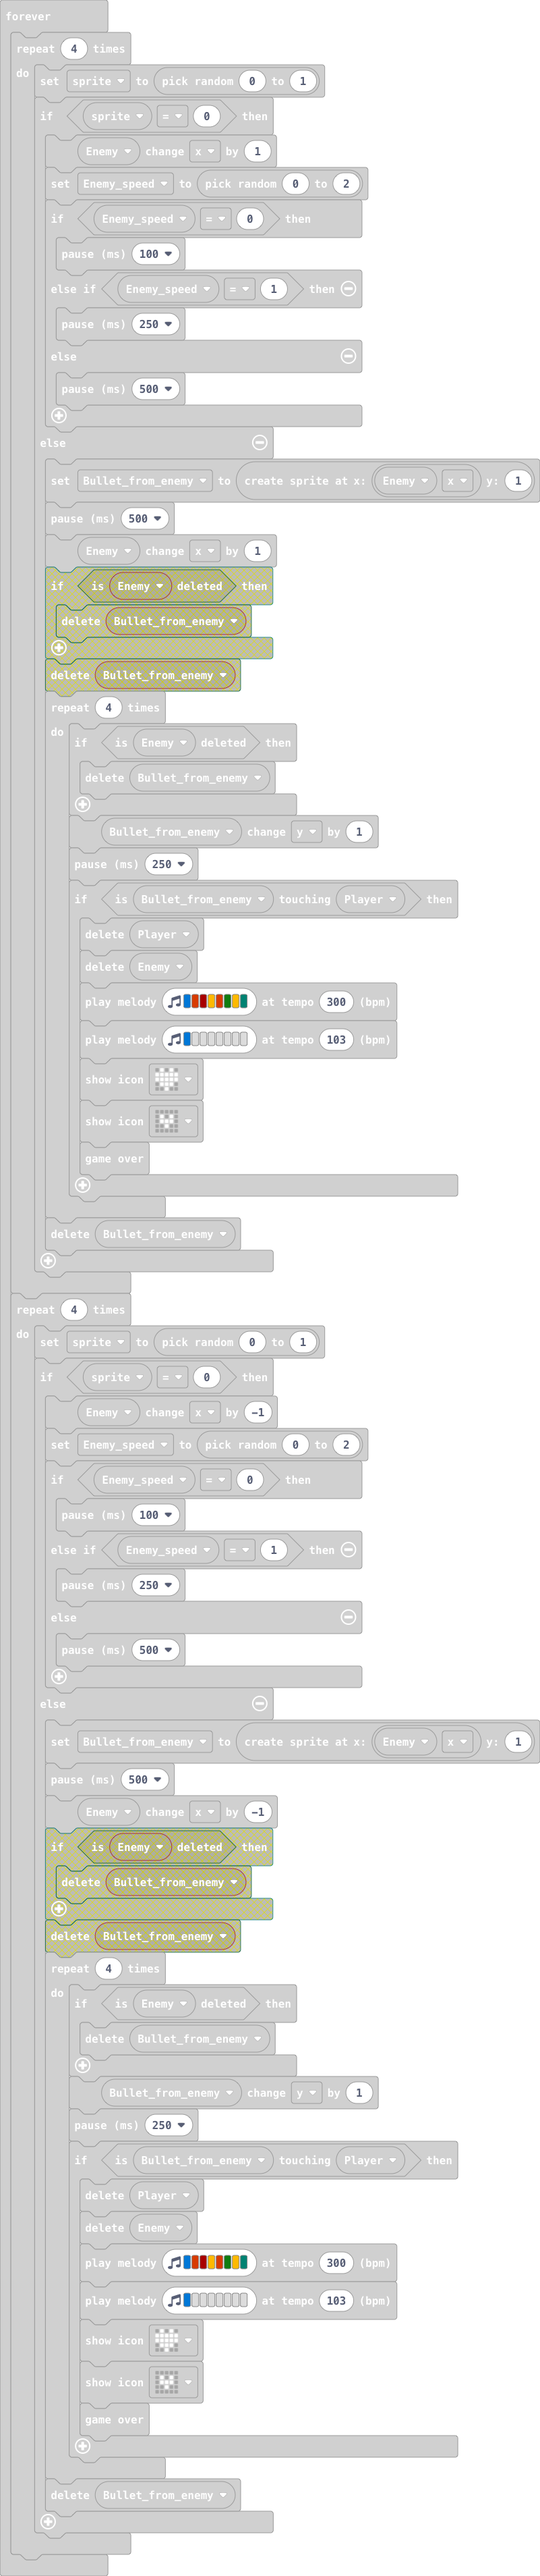
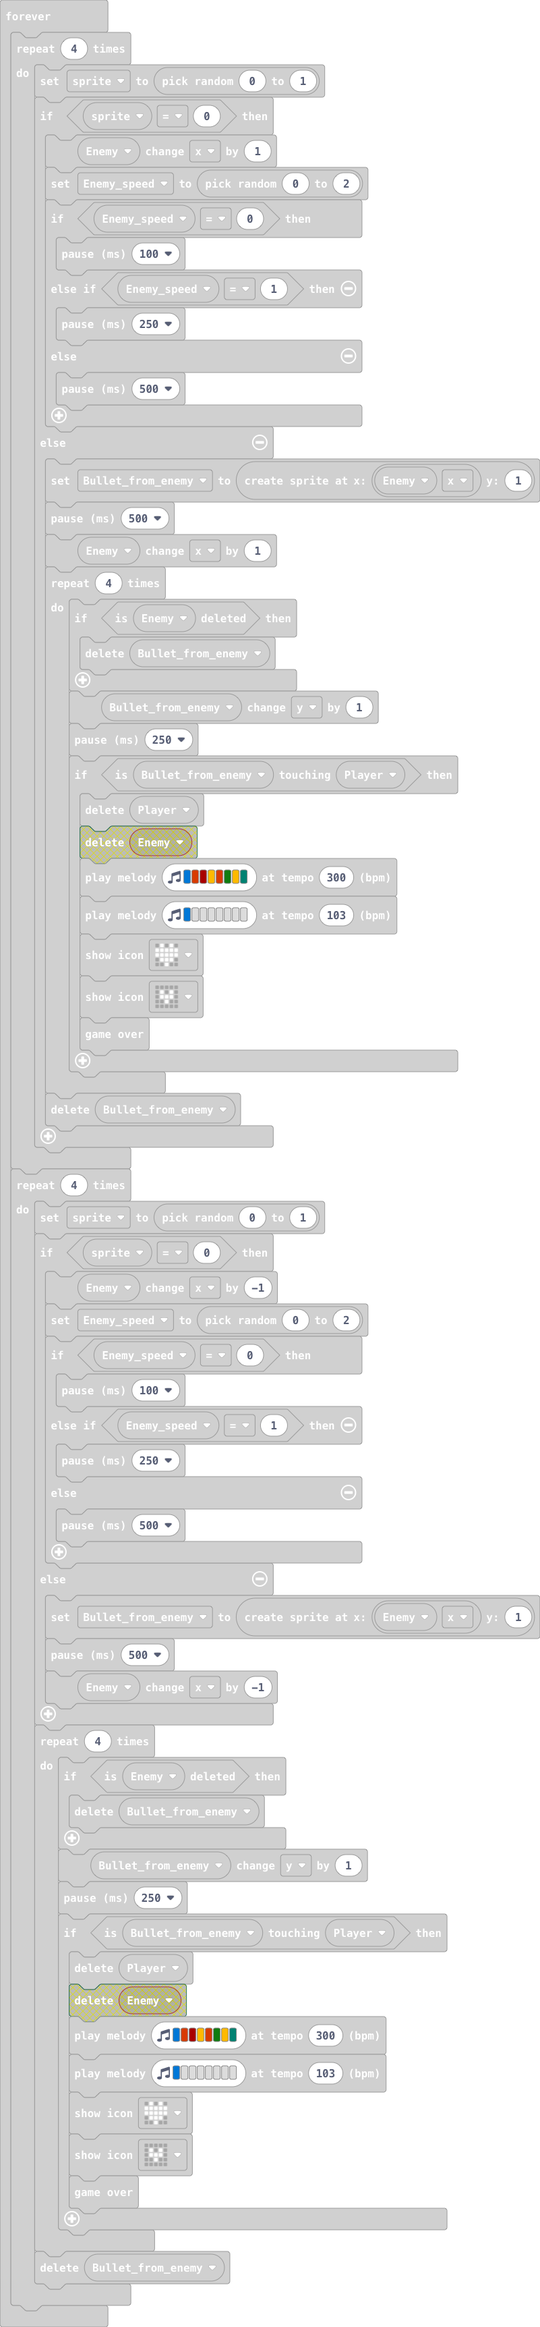
Update main.blocks, main.ts

Changed region(s): [[0.0312, 0.0, 1.0, 0.993]]

diff --git a/main.ts b/main.ts
@@ -66,7 +66,6 @@ basic.forever(function () {
                 basic.pause(250)
                 if (Bullet_from_enemy.isTouching(Player)) {
                     Player.delete()
-                    Enemy.delete()
                     music.playMelody("E B C5 A B G A F ", 300)
                     music.playMelody("E - - - - - - - ", 103)
                     basic.showIcon(IconNames.Heart)
@@ -102,13 +101,12 @@ basic.forever(function () {
             basic.pause(250)
             if (Bullet_from_enemy.isTouching(Player)) {
                 Player.delete()
-                Enemy.delete()
-                music.playMelody("E B C5 A B G A F ", 300)
-                music.playMelody("E - - - - - - - ", 103)
-                basic.showIcon(IconNames.Heart)
-                basic.showIcon(IconNames.SmallHeart)
-                game.gameOver()
             }
+            music.playMelody("E B C5 A B G A F ", 300)
+            music.playMelody("E - - - - - - - ", 103)
+            basic.showIcon(IconNames.Heart)
+            basic.showIcon(IconNames.SmallHeart)
+            game.gameOver()
         }
         Bullet_from_enemy.delete()
     }
